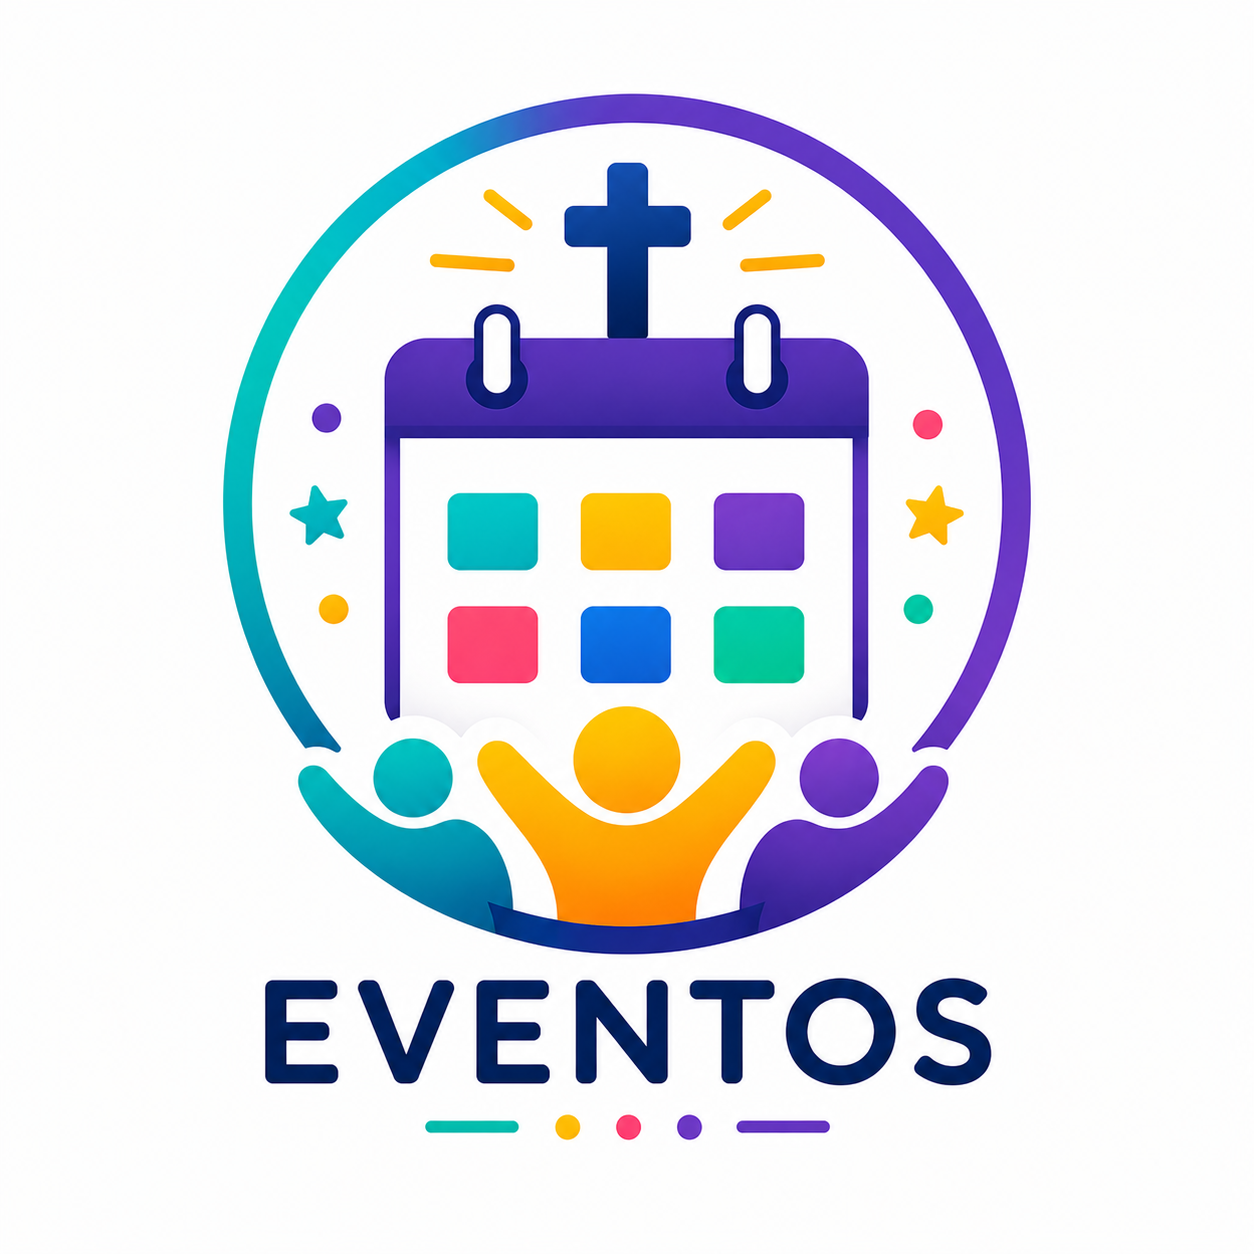
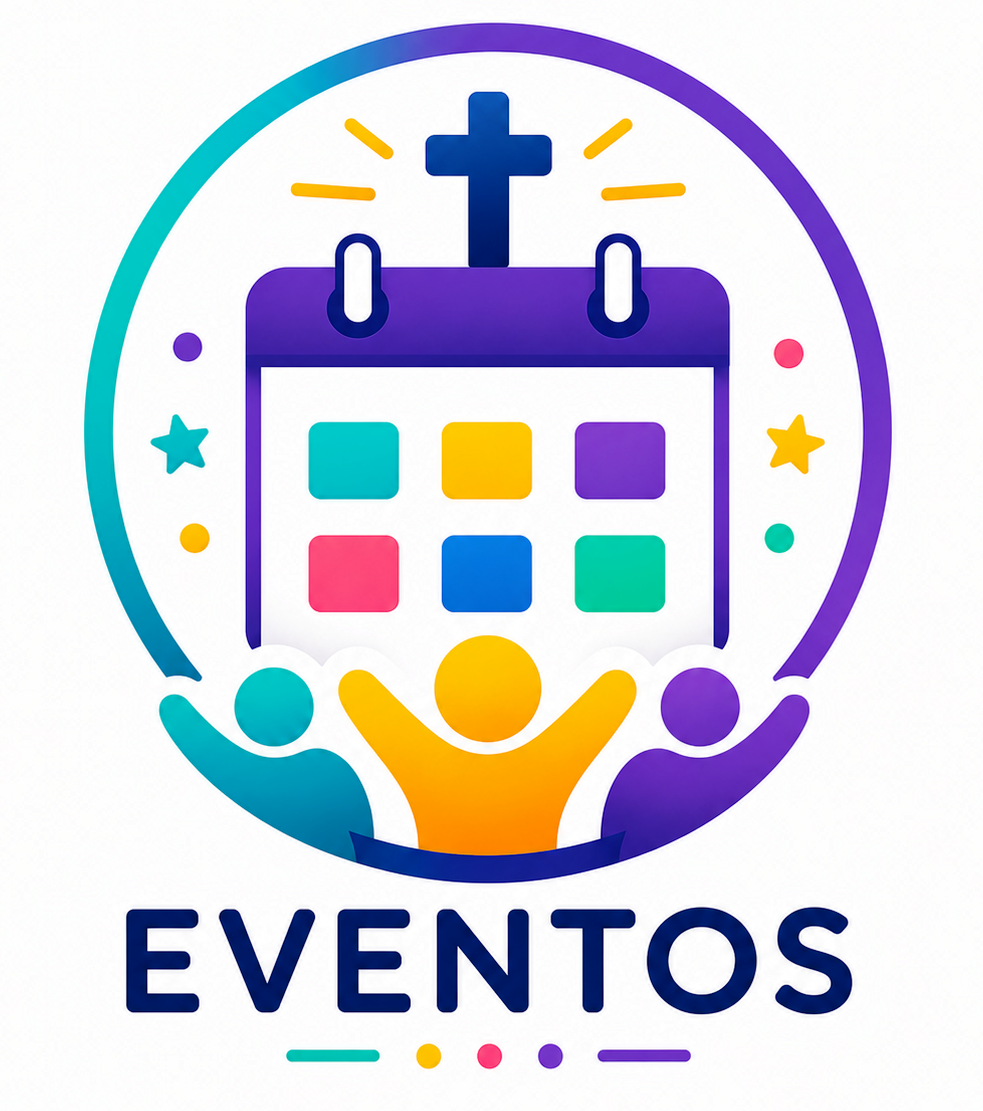
Reestruturação da grade de módulos, remoção de animações flutuantes e brilhos coloridos

Changed region(s): [[0.061, 0.0, 0.9156, 0.9793]]

diff --git a/src/pages/Dashboard.tsx b/src/pages/Dashboard.tsx
@@ -949,11 +949,10 @@ export default function Dashboard() {
             <div className="absolute top-1/2 right-[calc(25%+12px)] w-[2px] h-1/2 bg-blue-600" />
           </div>
 
-          {/* Grid de Módulos — cards flutuantes side-by-side (MAXIMIZADOS) */}
+          {/* Grid de Módulos (MAXIMIZADOS) */}
           <div className="grid grid-cols-3 gap-2 w-full relative z-10 px-2">
             {/* Card Catequizandos */}
-            <div className="relative group animate-welcome-float" style={{ animationDelay: '0s' }}>
-              <div className="absolute -inset-1 rounded-[32px] bg-gradient-to-br from-blue-200 via-indigo-200 to-violet-200 opacity-25 blur-xl group-hover:opacity-40 transition-opacity duration-500 animate-pulse" style={{ animationDuration: '3s' }} />
+            <div className="relative group">
               <button
                 onClick={() => {
                   if (selectedTurmaId !== "all" && selectedTurma?.status !== 'pending') {
@@ -965,8 +964,7 @@ export default function Dashboard() {
                     toast.info("Aguarde a aprovação do acesso.");
                   }
                 }}
-                className="relative aspect-square w-full rounded-[24px] overflow-hidden hover:scale-[1.04] active:scale-95 transition-all duration-300 shadow-xl border-2 border-white/50"
-                style={{ boxShadow: '0 8px 20px -4px rgba(99,102,241,0.15), 0 4px 8px -2px rgba(59,130,246,0.1)' }}
+                className="relative aspect-square w-full rounded-[24px] overflow-hidden hover:scale-[1.04] active:scale-95 transition-all duration-300 shadow-lg border-2 border-white/50"
               >
                 <img src="/card_catequizandos.jpg" alt="Catequizandos" fetchPriority="high" loading="eager" className="w-full h-full object-cover transition-transform duration-300 group-hover:scale-105" />
                 <div className="absolute inset-0 bg-gradient-to-t from-black/20 via-transparent to-transparent group-hover:from-black/10 transition-all duration-300" />
@@ -974,8 +972,7 @@ export default function Dashboard() {
             </div>
 
             {/* Card Encontros */}
-            <div className="relative group animate-welcome-float" style={{ animationDelay: '0.2s' }}>
-              <div className="absolute -inset-1 rounded-[32px] bg-gradient-to-br from-rose-200 via-pink-200 to-orange-200 opacity-25 blur-xl group-hover:opacity-40 transition-opacity duration-500 animate-pulse" style={{ animationDuration: '3.5s', animationDelay: '0.5s' }} />
+            <div className="relative group">
               <button
                 onClick={() => {
                   if (selectedTurmaId !== "all" && selectedTurma?.status !== 'pending') {
@@ -987,30 +984,15 @@ export default function Dashboard() {
                     toast.info("Aguarde a aprovação do acesso.");
                   }
                 }}
-                className="relative aspect-square w-full rounded-[24px] overflow-hidden hover:scale-[1.04] active:scale-95 transition-all duration-300 shadow-xl border-2 border-white/50"
-                style={{ boxShadow: '0 8px 20px -4px rgba(244,63,94,0.15), 0 4px 8px -2px rgba(251,113,133,0.1)' }}
+                className="relative aspect-square w-full rounded-[24px] overflow-hidden hover:scale-[1.04] active:scale-95 transition-all duration-300 shadow-lg border-2 border-white/50"
               >
                 <img src="/card_encontros.jpg" alt="Encontros" fetchPriority="high" loading="eager" className="w-full h-full object-cover transition-transform duration-300 group-hover:scale-105" />
                 <div className="absolute inset-0 bg-gradient-to-t from-black/20 via-transparent to-transparent group-hover:from-black/10 transition-all duration-300" />
               </button>
             </div>
 
-            {/* Card Biblia Online */}
-            <div className="relative group animate-welcome-float" style={{ animationDelay: '0.4s' }}>
-              <div className="absolute -inset-1 rounded-[32px] bg-gradient-to-br from-slate-200 via-zinc-200 to-slate-200 opacity-20 blur-xl group-hover:opacity-30 transition-opacity duration-500" />
-              <button
-                onClick={() => navigate("/modulos/biblia")}
-                className="relative aspect-square w-full rounded-[24px] overflow-hidden hover:scale-[1.04] active:scale-95 transition-all duration-300 shadow-xl border-2 border-white/50"
-                style={{ boxShadow: '0 8px 20px -4px rgba(0,0,0,0.1), 0 4px 8px -2px rgba(0,0,0,0.05)' }}
-              >
-                <img src="/card_biblia.jpg" alt="Bíblia Online" fetchPriority="high" loading="eager" className="w-full h-full object-cover transition-transform duration-300 group-hover:scale-105" />
-                <div className="absolute inset-0 bg-gradient-to-t from-black/20 via-transparent to-transparent group-hover:from-black/10 transition-all duration-300" />
-              </button>
-            </div>
-
             {/* Card Plano da Turma */}
-            <div className="relative group animate-welcome-float" style={{ animationDelay: '0.6s' }}>
-              <div className="absolute -inset-1 rounded-[32px] bg-gradient-to-br from-emerald-200 via-teal-200 to-green-200 opacity-25 blur-xl group-hover:opacity-40 transition-opacity duration-500 animate-pulse" style={{ animationDuration: '4s', animationDelay: '1s' }} />
+            <div className="relative group">
               <button
                 onClick={() => {
                   if (selectedTurmaId !== "all" && selectedTurma?.status !== 'pending') {
@@ -1022,52 +1004,20 @@ export default function Dashboard() {
                     toast.info("Aguarde a aprovação do acesso.");
                   }
                 }}
-                className="relative aspect-square w-full rounded-[24px] overflow-hidden hover:scale-[1.04] active:scale-95 transition-all duration-300 shadow-xl border-2 border-white/50 bg-white dark:bg-zinc-900"
-                style={{ boxShadow: '0 8px 20px -4px rgba(16,185,129,0.15), 0 4px 8px -2px rgba(5,150,105,0.1)' }}
+                className="relative aspect-square w-full rounded-[24px] overflow-hidden hover:scale-[1.04] active:scale-95 transition-all duration-300 shadow-lg border-2 border-white/50 bg-white dark:bg-zinc-900"
               >
                 <img src="/icone-plano da turma.png" alt="Plano da Turma" loading="lazy" className="w-full h-full object-contain p-2.5 transition-transform duration-300 group-hover:scale-105" />
               </button>
             </div>
 
-            {/* Card Eventos */}
-            <div className="relative group animate-welcome-float" style={{ animationDelay: '0.8s' }}>
-              <div className="absolute -inset-1 rounded-[32px] bg-gradient-to-br from-amber-200 via-orange-200 to-yellow-200 opacity-25 blur-xl group-hover:opacity-40 transition-opacity duration-500 animate-pulse" style={{ animationDuration: '3.2s', animationDelay: '0.8s' }} />
+            {/* Card Biblia Online */}
+            <div className="relative group col-start-2 col-span-1">
               <button
-                onClick={() => {
-                  if (selectedTurmaId !== "all" && selectedTurma?.status !== 'pending') {
-                    navigate(`/turmas/${selectedTurmaId}/eventos`);
-                  } else if (selectedTurmaId === "all") {
-                    toast.info("Selecione uma turma para acessar este módulo.");
-                    setTurmaPickerOpen(true);
-                  } else {
-                    toast.info("Aguarde a aprovação do acesso.");
-                  }
-                }}
-                className="relative aspect-square w-full rounded-[24px] overflow-hidden hover:scale-[1.04] active:scale-95 transition-all duration-300 shadow-xl border-2 border-white/50 bg-white dark:bg-zinc-900"
-                style={{ boxShadow: '0 8px 20px -4px rgba(245,158,11,0.15), 0 4px 8px -2px rgba(217,119,6,0.1)' }}
+                onClick={() => navigate("/modulos/biblia")}
+                className="relative aspect-square w-full rounded-[24px] overflow-hidden hover:scale-[1.04] active:scale-95 transition-all duration-300 shadow-lg border-2 border-white/50"
               >
-                <img src="/icone-eventos.png" alt="Eventos" loading="lazy" className="w-full h-full object-contain p-2.5 transition-transform duration-300 group-hover:scale-105" />
-              </button>
-            </div>
-
-            {/* Card Reuniões */}
-            <div className="relative group animate-welcome-float" style={{ animationDelay: '1.0s' }}>
-              <div className="absolute -inset-1 rounded-[32px] bg-gradient-to-br from-purple-200 via-violet-200 to-indigo-200 opacity-25 blur-xl group-hover:opacity-40 transition-opacity duration-500 animate-pulse" style={{ animationDuration: '3.8s', animationDelay: '1.2s' }} />
-              <button
-                onClick={() => {
-                  if (selectedTurmaId !== "all" && selectedTurma?.status !== 'pending') {
-                    navigate(`/turmas/${selectedTurmaId}/reunioes`);
-                  } else if (selectedTurmaId === "all") {
-                    toast.info("Selecione uma turma para acessar este módulo.");
-                    setTurmaPickerOpen(true);
-                  } else {
-                    toast.info("Aguarde a aprovação do acesso.");
-                  }
-                }}
-                className="relative aspect-square w-full rounded-[24px] overflow-hidden hover:scale-[1.04] active:scale-95 transition-all duration-300 shadow-xl border-2 border-white/50 bg-white dark:bg-zinc-900"
-                style={{ boxShadow: '0 8px 20px -4px rgba(139,92,246,0.15), 0 4px 8px -2px rgba(109,40,217,0.1)' }}
-              >
-                <img src="/icone-reunioes.png" alt="Reuniões" loading="lazy" className="w-full h-full object-contain p-2.5 transition-transform duration-300 group-hover:scale-105" />
+                <img src="/card_biblia.jpg" alt="Bíblia Online" fetchPriority="high" loading="eager" className="w-full h-full object-cover transition-transform duration-300 group-hover:scale-105" />
+                <div className="absolute inset-0 bg-gradient-to-t from-black/20 via-transparent to-transparent group-hover:from-black/10 transition-all duration-300" />
               </button>
             </div>
           </div>